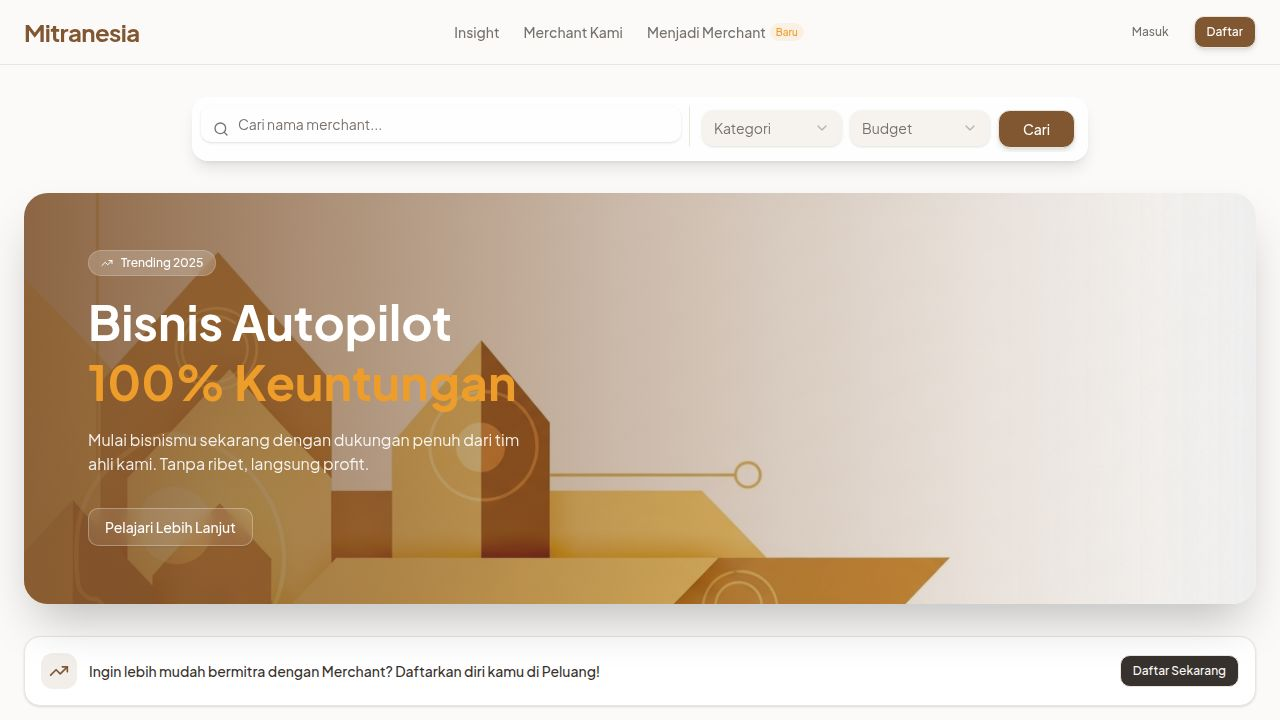
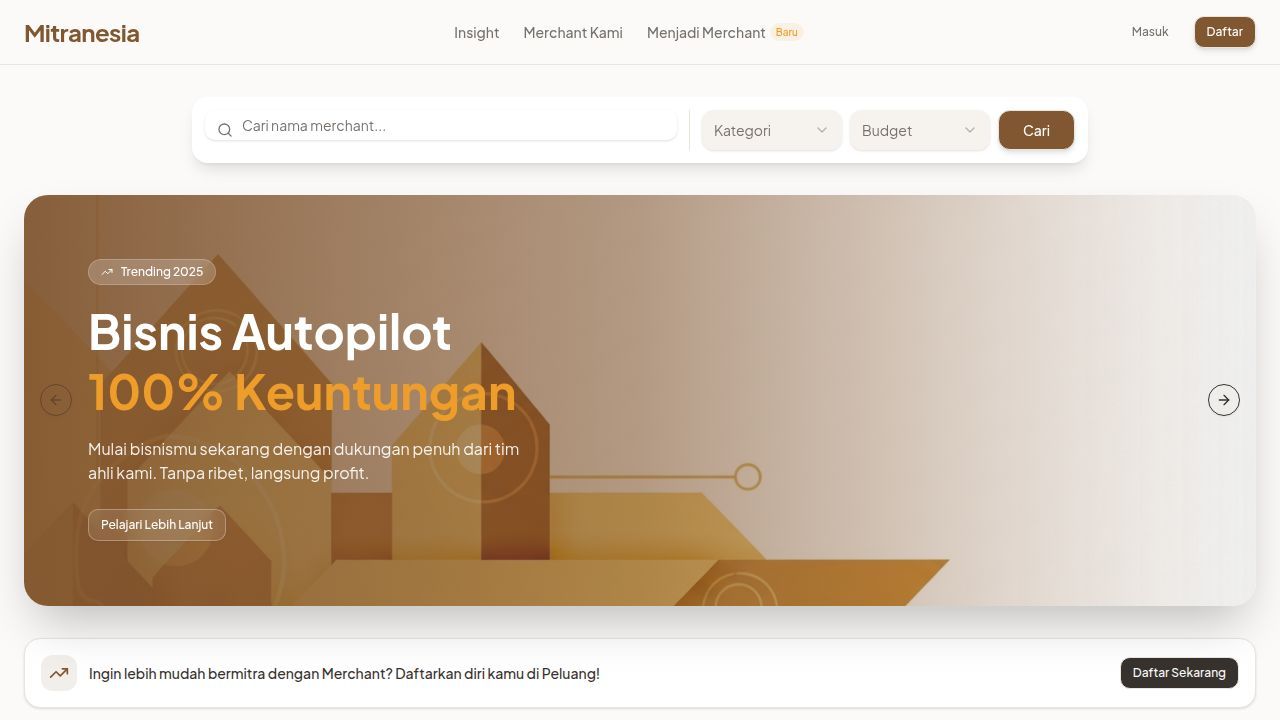
Remove merchant login and registration options from the website
Removes the merchant tab functionality from the login and register pages, simplifying them for user-only access.

Replit-Commit-Author: Agent
Replit-Commit-Session-Id: ecebeb57-cef4-4140-a3bd-6a0d294977b0
Replit-Commit-Checkpoint-Type: full_checkpoint
Replit-Commit-Event-Id: 75a048eb-8532-4e5a-8ad9-4d9b98c91c38
Replit-Commit-Screenshot-Url: https://storage.googleapis.com/screenshot-production-us-central1/744eb96e-e4c2-4b44-9394-5a137d4dcdd2/ecebeb57-cef4-4140-a3bd-6a0d294977b0/zes9uIB
Replit-Helium-Checkpoint-Created: true

diff --git a/client/src/pages/register.tsx b/client/src/pages/register.tsx
@@ -4,14 +4,12 @@ import { Button } from "@/components/ui/button";
 import { Input } from "@/components/ui/input";
 import { Label } from "@/components/ui/label";
 import { Checkbox } from "@/components/ui/checkbox";
-import { Tabs, TabsContent, TabsList, TabsTrigger } from "@/components/ui/tabs";
-import { ArrowLeft, Building2, User, Eye, EyeOff } from "lucide-react";
+import { ArrowLeft, Eye, EyeOff } from "lucide-react";
 import bgImage from "@assets/generated_images/professional_handshake_business_partnership_background.png";
 
 export default function Register() {
   const [, setLocation] = useLocation();
   const [showPassword, setShowPassword] = useState(false);
-  const [activeTab, setActiveTab] = useState("user");
 
   const handleRegister = (e: React.FormEvent) => {
     e.preventDefault();
@@ -48,116 +46,53 @@ export default function Register() {
         <div className="max-w-md mx-auto w-full space-y-8 my-auto pt-12 md:pt-0">
           <div className="text-center md:text-left space-y-2">
             <h2 className="text-3xl font-bold text-foreground">Buat Akun Baru</h2>
-            <p className="text-muted-foreground">Pilih peran yang sesuai dengan kebutuhan Anda</p>
+            <p className="text-muted-foreground">Silakan lengkapi data diri Anda</p>
           </div>
 
-          <Tabs defaultValue="user" value={activeTab} onValueChange={setActiveTab} className="w-full">
-            <TabsList className="grid grid-cols-2 w-full mb-8">
-              <TabsTrigger value="user" className="gap-2">
-                <User size={16} /> User
-              </TabsTrigger>
-              <TabsTrigger value="merchant" className="gap-2">
-                <Building2 size={16} /> Merchant
-              </TabsTrigger>
-            </TabsList>
+          <form onSubmit={handleRegister} className="space-y-4">
+            <div className="space-y-2">
+              <Label htmlFor="name">Nama Lengkap</Label>
+              <Input id="name" type="text" placeholder="John Doe" required />
+            </div>
+            <div className="space-y-2">
+              <Label htmlFor="email">Email Address</Label>
+              <Input id="email" type="email" placeholder="[email redacted]" required />
+            </div>
+            <div className="space-y-2">
+              <Label htmlFor="phone">Nomor WhatsApp</Label>
+              <Input id="phone" type="tel" placeholder="[phone redacted]" required />
+            </div>
+            <div className="space-y-2">
+              <Label htmlFor="password">Password</Label>
+              <div className="relative">
+                <Input 
+                  id="password" 
+                  type={showPassword ? "text" : "password"} 
+                  placeholder="••••••••" 
+                  required 
+                />
+                <button 
+                  type="button"
+                  onClick={() => setShowPassword(!showPassword)}
+                  className="absolute right-3 top-1/2 -translate-y-1/2 text-muted-foreground hover:text-foreground"
+                >
+                  {showPassword ? <EyeOff size={16} /> : <Eye size={16} />}
+                </button>
+              </div>
+              <p className="text-xs text-muted-foreground">Min. 8 karakter, kombinasi huruf & angka</p>
+            </div>
+            
+            <div className="flex items-start gap-2 pt-2">
+              <Checkbox id="terms" required />
+              <Label htmlFor="terms" className="text-sm font-normal leading-tight text-muted-foreground">
+                Saya menyetujui <a href="#" className="text-primary hover:underline">Syarat & Ketentuan</a> serta <a href="#" className="text-primary hover:underline">Kebijakan Privasi</a> Mitranesia.
+              </Label>
+            </div>
 
-            <TabsContent value="user">
-              <form onSubmit={handleRegister} className="space-y-4">
-                <div className="space-y-2">
-                  <Label htmlFor="name-user">Nama Lengkap</Label>
-                  <Input id="name-user" type="text" placeholder="John Doe" required />
-                </div>
-                <div className="space-y-2">
-                  <Label htmlFor="email-user">Email Address</Label>
-                  <Input id="email-user" type="email" placeholder="[email redacted]" required />
-                </div>
-                <div className="space-y-2">
-                  <Label htmlFor="phone-user">Nomor WhatsApp</Label>
-                  <Input id="phone-user" type="tel" placeholder="[phone redacted]" required />
-                </div>
-                <div className="space-y-2">
-                  <Label htmlFor="password-user">Password</Label>
-                  <div className="relative">
-                    <Input 
-                      id="password-user" 
-                      type={showPassword ? "text" : "password"} 
-                      placeholder="••••••••" 
-                      required 
-                    />
-                    <button 
-                      type="button"
-                      onClick={() => setShowPassword(!showPassword)}
-                      className="absolute right-3 top-1/2 -translate-y-1/2 text-muted-foreground hover:text-foreground"
-                    >
-                      {showPassword ? <EyeOff size={16} /> : <Eye size={16} />}
-                    </button>
-                  </div>
-                  <p className="text-xs text-muted-foreground">Min. 8 karakter, kombinasi huruf & angka</p>
-                </div>
-                
-                <div className="flex items-start gap-2 pt-2">
-                  <Checkbox id="terms-user" required />
-                  <Label htmlFor="terms-user" className="text-sm font-normal leading-tight text-muted-foreground">
-                    Saya menyetujui <a href="#" className="text-primary hover:underline">Syarat & Ketentuan</a> serta <a href="#" className="text-primary hover:underline">Kebijakan Privasi</a> Mitranesia.
-                  </Label>
-                </div>
-
-                <Button type="submit" className="w-full h-11 text-base bg-primary hover:bg-primary/90 text-white shadow-lg mt-4">
-                  Daftar sebagai User
-                </Button>
-              </form>
-            </TabsContent>
-
-            <TabsContent value="merchant">
-              <form onSubmit={handleRegister} className="space-y-4">
-                <div className="space-y-2">
-                  <Label htmlFor="business-name">Nama Bisnis / Brand</Label>
-                  <Input id="business-name" type="text" placeholder="Contoh: Kopi Kenangan" required />
-                </div>
-                <div className="space-y-2">
-                  <Label htmlFor="name-merchant">Nama Pemilik</Label>
-                  <Input id="name-merchant" type="text" placeholder="Nama Lengkap Owner" required />
-                </div>
-                <div className="space-y-2">
-                  <Label htmlFor="email-merchant">Email Bisnis</Label>
-                  <Input id="email-merchant" type="email" placeholder="[email redacted]" required />
-                </div>
-                 <div className="space-y-2">
-                  <Label htmlFor="phone-merchant">Nomor WhatsApp Bisnis</Label>
-                  <Input id="phone-merchant" type="tel" placeholder="[phone redacted]" required />
-                </div>
-                <div className="space-y-2">
-                  <Label htmlFor="password-merchant">Password</Label>
-                  <div className="relative">
-                    <Input 
-                      id="password-merchant" 
-                      type={showPassword ? "text" : "password"} 
-                      placeholder="••••••••" 
-                      required 
-                    />
-                    <button 
-                      type="button"
-                      onClick={() => setShowPassword(!showPassword)}
-                      className="absolute right-3 top-1/2 -translate-y-1/2 text-muted-foreground hover:text-foreground"
-                    >
-                      {showPassword ? <EyeOff size={16} /> : <Eye size={16} />}
-                    </button>
-                  </div>
-                </div>
-
-                <div className="flex items-start gap-2 pt-2">
-                  <Checkbox id="terms-merchant" required />
-                  <Label htmlFor="terms-merchant" className="text-sm font-normal leading-tight text-muted-foreground">
-                    Saya menyetujui <a href="#" className="text-primary hover:underline">Syarat & Ketentuan Merchant</a> Mitranesia.
-                  </Label>
-                </div>
-
-                <Button type="submit" className="w-full h-11 text-base bg-primary hover:bg-primary/90 text-white shadow-lg mt-4">
-                  Daftar sebagai Merchant
-                </Button>
-              </form>
-            </TabsContent>
-          </Tabs>
+            <Button type="submit" className="w-full h-11 text-base bg-primary hover:bg-primary/90 text-white shadow-lg mt-4">
+              Daftar
+            </Button>
+          </form>
 
           <div className="text-center text-sm pb-8 md:pb-0">
             <span className="text-muted-foreground">Sudah punya akun? </span>

diff --git a/client/src/pages/login.tsx b/client/src/pages/login.tsx
@@ -3,15 +3,12 @@ import { Link, useLocation } from "wouter";
 import { Button } from "@/components/ui/button";
 import { Input } from "@/components/ui/input";
 import { Label } from "@/components/ui/label";
-import { Card, CardContent } from "@/components/ui/card";
-import { Tabs, TabsContent, TabsList, TabsTrigger } from "@/components/ui/tabs";
-import { ArrowLeft, Building2, User, Eye, EyeOff } from "lucide-react";
+import { ArrowLeft, Eye, EyeOff } from "lucide-react";
 import bgImage from "@assets/generated_images/professional_handshake_business_partnership_background.png";
 
 export default function Login() {
   const [, setLocation] = useLocation();
   const [showPassword, setShowPassword] = useState(false);
-  const [activeTab, setActiveTab] = useState("user");
 
   const handleLogin = (e: React.FormEvent) => {
     e.preventDefault();
@@ -48,85 +45,39 @@ export default function Login() {
         <div className="max-w-md mx-auto w-full space-y-8">
           <div className="text-center md:text-left space-y-2">
             <h2 className="text-3xl font-bold text-foreground">Masuk ke Akun</h2>
-            <p className="text-muted-foreground">Silakan pilih tipe akun Anda untuk melanjutkan</p>
+            <p className="text-muted-foreground">Silakan masuk untuk melanjutkan</p>
           </div>
 
-          <Tabs defaultValue="user" value={activeTab} onValueChange={setActiveTab} className="w-full">
-            <TabsList className="grid grid-cols-2 w-full mb-8">
-              <TabsTrigger value="user" className="gap-2">
-                <User size={16} /> User
-              </TabsTrigger>
-              <TabsTrigger value="merchant" className="gap-2">
-                <Building2 size={16} /> Merchant
-              </TabsTrigger>
-            </TabsList>
-
-            <TabsContent value="user">
-              <form onSubmit={handleLogin} className="space-y-6">
-                <div className="space-y-2">
-                  <Label htmlFor="email-user">Email Address</Label>
-                  <Input id="email-user" type="email" placeholder="[email redacted]" required />
-                </div>
-                <div className="space-y-2">
-                  <div className="flex items-center justify-between">
-                    <Label htmlFor="password-user">Password</Label>
-                    <a href="#" className="text-xs text-primary hover:underline font-medium">Lupa Password?</a>
-                  </div>
-                  <div className="relative">
-                    <Input 
-                      id="password-user" 
-                      type={showPassword ? "text" : "password"} 
-                      placeholder="••••••••" 
-                      required 
-                    />
-                    <button 
-                      type="button"
-                      onClick={() => setShowPassword(!showPassword)}
-                      className="absolute right-3 top-1/2 -translate-y-1/2 text-muted-foreground hover:text-foreground"
-                    >
-                      {showPassword ? <EyeOff size={16} /> : <Eye size={16} />}
-                    </button>
-                  </div>
-                </div>
-                <Button type="submit" className="w-full h-11 text-base bg-primary hover:bg-primary/90 text-white shadow-lg">
-                  Masuk sebagai User
-                </Button>
-              </form>
-            </TabsContent>
-
-            <TabsContent value="merchant">
-              <form onSubmit={handleLogin} className="space-y-6">
-                <div className="space-y-2">
-                  <Label htmlFor="email-merchant">Email Bisnis</Label>
-                  <Input id="email-merchant" type="email" placeholder="[email redacted]" required />
-                </div>
-                <div className="space-y-2">
-                  <div className="flex items-center justify-between">
-                    <Label htmlFor="password-merchant">Password</Label>
-                    <a href="#" className="text-xs text-primary hover:underline font-medium">Lupa Password?</a>
-                  </div>
-                  <div className="relative">
-                    <Input 
-                      id="password-merchant" 
-                      type={showPassword ? "text" : "password"} 
-                      placeholder="••••••••" 
-                      required 
-                    />
-                    <button 
-                      type="button"
-                      onClick={() => setShowPassword(!showPassword)}
-                      className="absolute right-3 top-1/2 -translate-y-1/2 text-muted-foreground hover:text-foreground"
-                    >
-                      {showPassword ? <EyeOff size={16} /> : <Eye size={16} />}
-                    </button>
-                  </div>
-                </div>
-                <Button type="submit" className="w-full h-11 text-base bg-primary hover:bg-primary/90 text-white shadow-lg">
-                  Masuk sebagai Merchant
-                </Button>
-              </form>
-            </TabsContent>
-          </Tabs>
+          <form onSubmit={handleLogin} className="space-y-6">
+            <div className="space-y-2">
+              <Label htmlFor="email">Email Address</Label>
+              <Input id="email" type="email" placeholder="[email redacted]" required />
+            </div>
+            <div className="space-y-2">
+              <div className="flex items-center justify-between">
+                <Label htmlFor="password">Password</Label>
+                <a href="#" className="text-xs text-primary hover:underline font-medium">Lupa Password?</a>
+              </div>
+              <div className="relative">
+                <Input 
+                  id="password" 
+                  type={showPassword ? "text" : "password"} 
+                  placeholder="••••••••" 
+                  required 
+                />
+                <button 
+                  type="button"
+                  onClick={() => setShowPassword(!showPassword)}
+                  className="absolute right-3 top-1/2 -translate-y-1/2 text-muted-foreground hover:text-foreground"
+                >
+                  {showPassword ? <EyeOff size={16} /> : <Eye size={16} />}
+                </button>
+              </div>
+            </div>
+            <Button type="submit" className="w-full h-11 text-base bg-primary hover:bg-primary/90 text-white shadow-lg">
+              Masuk
+            </Button>
+          </form>
 
           <div className="text-center text-sm">
             <span className="text-muted-foreground">Belum punya akun? </span>